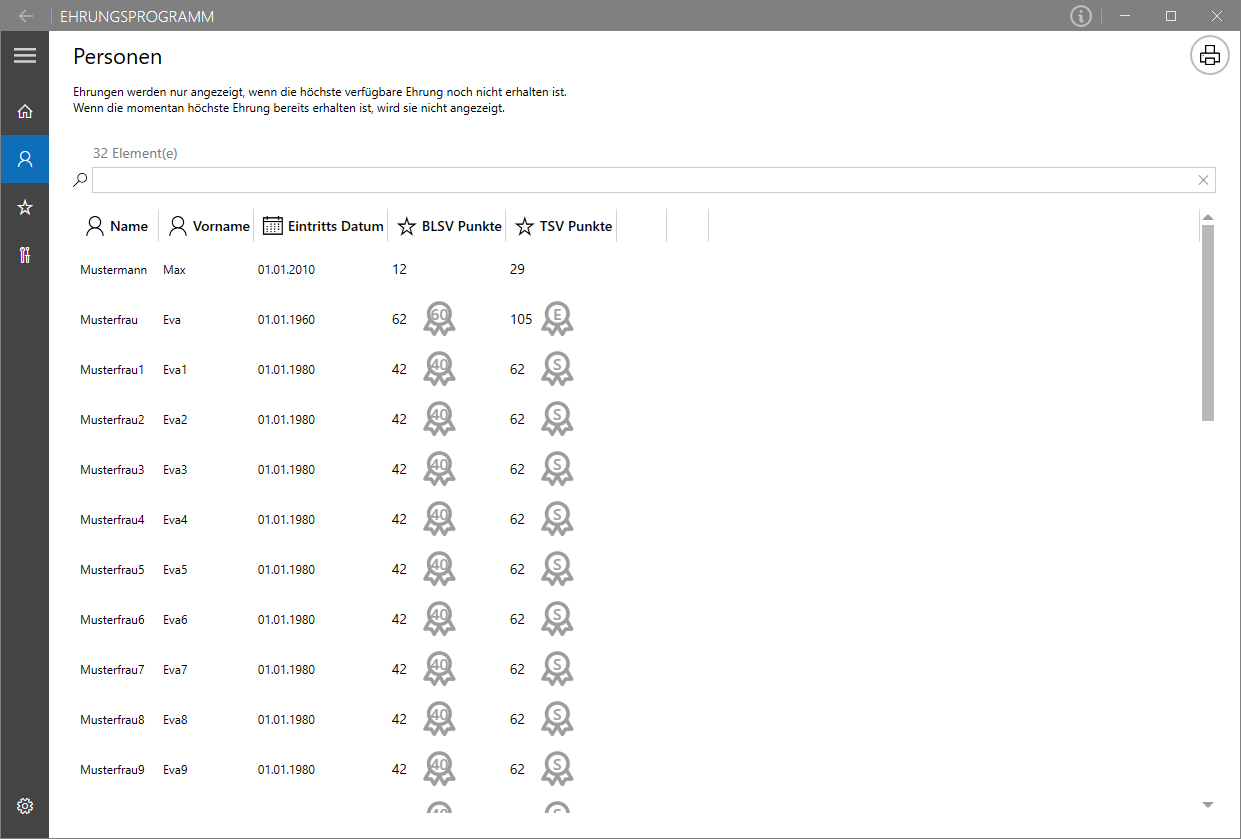
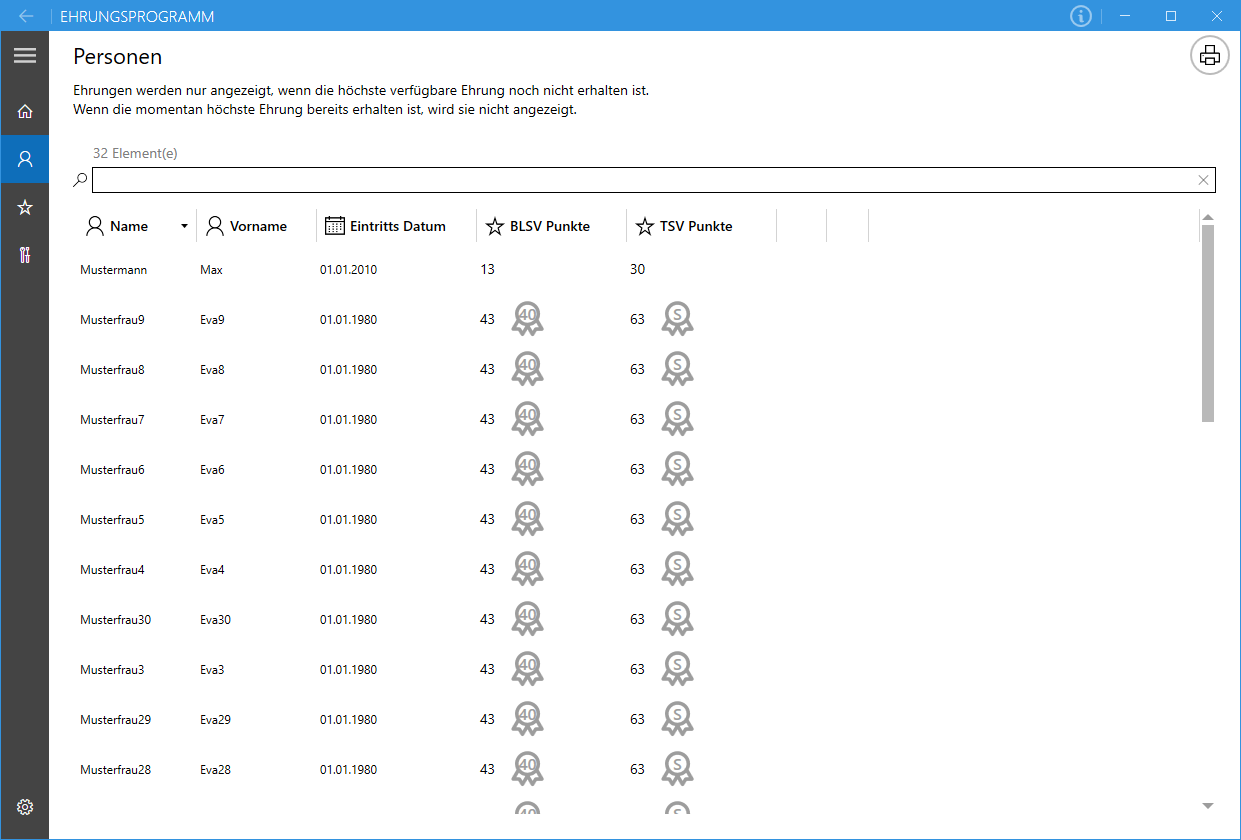
Increased some font sizes, updated Changelog and Readme, updated Screenshots

diff --git a/Ehrungsprogramm/Views/PersonsPage.xaml b/Ehrungsprogramm/Views/PersonsPage.xaml
@@ -50,7 +50,7 @@
             </Grid>
         </DockPanel>
 
-        <TextBlock Grid.Row="1" VerticalAlignment="Center" Margin="{StaticResource MediumLeftRightMargin}" Text="{x:Static properties:Resources.RewardVisibilityInfoString}"/>
+        <TextBlock Grid.Row="1" VerticalAlignment="Center" Margin="{StaticResource MediumLeftRightMargin}" Text="{x:Static properties:Resources.RewardVisibilityInfoString}" FontSize="{StaticResource MediumFontSize}"/>
 
         <localControls:FilteredListView Grid.Row="2" ItemsSource="{Binding People}" Margin="{StaticResource MediumLeftTopRightBottomMargin}" FilterPredicate="{Binding PersonFilter}" FilterText="{Binding FilterText, Mode=TwoWay}" GridViewColumnHeader.Click="GridViewColumnHeader_Click">
             <localControls:FilteredListView.View>

diff --git a/Ehrungsprogramm/Views/RewardsPage.xaml b/Ehrungsprogramm/Views/RewardsPage.xaml
@@ -85,7 +85,7 @@
             </Grid>
         </DockPanel>
 
-        <TextBlock Grid.Row="1" Grid.ColumnSpan="2" VerticalAlignment="Center" Margin="{StaticResource MediumLeftRightMargin}" Text="{x:Static properties:Resources.RewardVisibilityInfoString}"/>
+        <TextBlock Grid.Row="1" Grid.ColumnSpan="2" VerticalAlignment="Center" Margin="{StaticResource MediumLeftRightMargin}" Text="{x:Static properties:Resources.RewardVisibilityInfoString}" FontSize="{StaticResource MediumFontSize}"/>
 
         <!-- +++++++++++++++++++++++++++++++++++++++++++++++++++++++++++++++++++++++++++++++++++++++++++++++++++++++++++++++++++++++++++++++++++++++++++++++++++ -->
         

diff --git a/README.md b/README.md
@@ -14,11 +14,11 @@ Auf dieser Grundlage werden alle fälligen Ehrungen (BLSV und TSV) errechnet und
 ## Seiten Beschreibung
 Nachfolgend werden kurz die Funktionen der jeweiligen Seite der Anwendung beschrieben:
 - **Start:** Startseite der Anwendung. Von hier sind alle anderen Seiten erreichbar. Diese Seite ist gleichwertig zum Menü auf der linken Seite.
-- **Personen:** Kurze Übersicht aller eingelesenen Personen inklusive Name, Eintrittsdatum und eventuell verfügbaren Ehrungen. Über die Suchleiste kann die Liste nach Namen, Punkten oder dem Eintrittsdatum gefiltert werden. Fährt man mit der Maus auf eine Person, können über den Info-Knopf nähere Details über die Person angezeigt werden.
-- **Ehrungen:** Übersicht aller Ehrungen, aufgeteilt nach BLSV und TSV Ehrungen. In den Listen werden die Namen und Punkte der Personen aufgeführt, für die eine entsprechende Ehrung aussteht. Jede Person wird nur bei der *höchsten verfügbaren Ehrung* angezeigt. Fährt man mit der Maus auf eine Person, können über den Info-Knopf nähere Details über die Person angezeigt werden.
+- **Personen:** Kurze Übersicht aller eingelesenen Personen inklusive Name, Eintrittsdatum und eventuell verfügbaren Ehrungen. Über die Suchleiste kann die Liste nach Namen, Punkten oder dem Eintrittsdatum gefiltert werden. Fährt man mit der Maus auf eine Person, können über den Info-Knopf nähere Details über die Person angezeigt werden. Durch einen Klick auf die Spaltenüberschriften wird die Liste nach der Spalte sortiert.
+- **Ehrungen:** Übersicht aller Ehrungen, aufgeteilt nach BLSV und TSV Ehrungen. In den Listen werden die Namen und Punkte der Personen aufgeführt, für die eine entsprechende Ehrung aussteht. Jede Person wird nur bei der *höchsten verfügbaren Ehrung* angezeigt. Fährt man mit der Maus auf eine Person, können über den Info-Knopf nähere Details über die Person angezeigt werden. Durch einen Klick auf die Spaltenüberschriften wird die Liste nach der Spalte sortiert.
 - **Datenbank verwalten:** Hier können die Grunddaten eingestellt bzw. geladen werden, mit der die Anwendung arbeitet. Über den Knopf "Aus Datei importieren" kann eine Datei mit den Stammdaten der Mitglieder eingelesen werden. Außerdem besteht hier die Möglichkeit, die letzte Datei nochmals zu laden (falls es Änderungen in der Datei gab) oder die geladenen Daten zu löschen. Der Stichtag wird als Bezugstag für alle Berechnungne verwendet.
 - **Einstellungen:** Hier kann das Design der Anwendung eingestellt werden (Hell, Dunkel oder Standard). Bei Standard wird die Windows Einstellung übernommen. Außerdem ist hier die Version ersichtlich.
-- **Person Details:** Diese Seite ist nicht direkt erreichbar. Wird auf der Seite "Personen" oder "Ehrungen" der Info-Knopf einer Person angeklickt, gelangt man auf diese Seite. Es werden alle geladenen Stammdaten (Name, Geburtsdatum, Eintrittsdatum, Funktionen) und berechnete Daten (effektive Jahre in den Funktionen, Ehrungen, Punkte) angezeigt
+- **Person Details:** Diese Seite ist nicht direkt erreichbar. Wird auf der Seite "Personen" oder "Ehrungen" der Info-Knopf einer Person angeklickt, gelangt man auf diese Seite. Es werden alle geladenen Stammdaten (Name, Geburtsdatum, Eintrittsdatum, Funktionen) und berechnete Daten (effektive Jahre in den Funktionen, Ehrungen, Punkte) angezeigt.
 
 <img src="https://github.com/M1S2/Ehrungsprogramm/raw/master/Screenshots/Screenshot_Start.png" width="45%"></img>
 <img src="https://github.com/M1S2/Ehrungsprogramm/raw/master/Screenshots/Screenshot_Persons.png" width="45%"></img>

diff --git a/CHANGELOG.md b/CHANGELOG.md
@@ -1,5 +1,14 @@
 # Ehrungsprogramm Changelog
 
+## [v1.2.0]
+
+- Die Filter der Ehrungsliste werden mit ausgedruckt (#23)
+- Ehrungsliste kann nach bestimmten Ehrungen gefiltert werden (#19)
+- Listen können über einen Klick auf die Spaltenüberschriften sortiert werden (#22)
+- Nur gefilterte Personen werden gedruckt für die Personen Übersicht (#20)
+- Bessere Darstellung der effektiven Jahre und Punkte bei den Personen Details
+- AssemblyInfoHelper Library Update (v5.2.2)
+
 ## [v1.1.0]
 
 - Unbekannte/zusätzliche Ehrungen werden bei den Personen Details mit angezeigt (#15)
